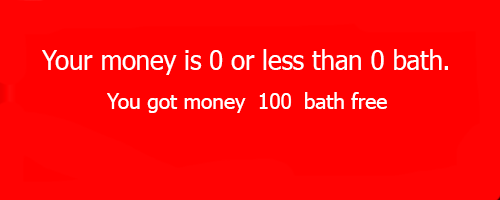
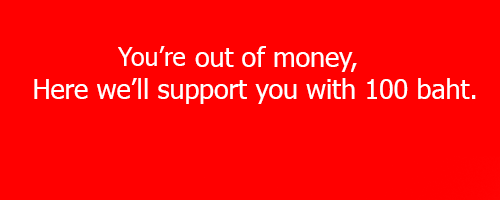
add Java doc

Changed region(s): [[0.06, 0.39, 0.96, 0.57], [0.06, 0.21, 0.9, 0.39], [0.99, 0.99, 1.0, 1.0]]

diff --git a/src/myhilo/GetDiceCorrect.java b/src/myhilo/GetDiceCorrect.java
@@ -1,7 +1,6 @@
 /*
- * To change this license header, choose License Headers in Project Properties.
- * To change this template file, choose Tools | Templates
- * and oppackage myhilo;en the template in the editor.
+ * This class for running test as console
+ * Also use for checking the dice and FaceChooser on MyDiceGame class.
  */
 package myhilo;
 import java.util.*;

diff --git a/src/myhilo/MyDiceGame.java b/src/myhilo/MyDiceGame.java
@@ -1,7 +1,6 @@
 /*
- * To change this license header, choose License Headers in Project Properties.
- * To change this template file, choose Tools | Templates
- * and open the template in the editor.
+ *This class use for playing Dice game which will record 
+ *your money everytime you finished a game.
  */
 package myhilo;
 import java.awt.*;

diff --git a/src/myhilo/FileLock.java b/src/myhilo/FileLock.java
@@ -1,7 +1,6 @@
 /*
- * To change this license header, choose License Headers in Project Properties.
- * To change this template file, choose Tools | Templates
- * and open the template in the editor.
+ * FileLock class use for read file from FileLoader package.
+ * Set Username Password and Money to use on other class.
  */
 package myhilo;
 

diff --git a/src/myhilo/MyCardGame.java b/src/myhilo/MyCardGame.java
@@ -1,7 +1,6 @@
 /*
- * To change this license header, choose License Headers in Project Properties.
- * To change this template file, choose Tools | Templates
- * and open the template in the editor.
+ * This class for playing CardGame which will get your acount use
+ * and set money all the time you finished a game.a
  */
 package myhilo;
 

diff --git a/src/myhilo/AdvertiseMain.java b/src/myhilo/AdvertiseMain.java
@@ -1,7 +1,7 @@
 /*
- * To change this license header, choose License Headers in Project Properties.
- * To change this template file, choose Tools | Templates
- * and open the template in the editor.
+ * For running FXML file
+ * Run as "Advertise.fxml" which use AdvertiseController class 
+ * to run Application.
  */
 package myhilo;
 

diff --git a/src/myhilo/GetFreeMoney.java b/src/myhilo/GetFreeMoney.java
@@ -1,7 +1,6 @@
 /*
- * To change this license header, choose License Headers in Project Properties.
- * To change this template file, choose Tools | Templates
- * and open the template in the editor.
+ * This class calling for notify that "you out off money
+ * and get 100 bath free" by showing from a picture.
  */
 package myhilo;
 

diff --git a/src/myhilo/NewMoneyAccount.java b/src/myhilo/NewMoneyAccount.java
@@ -1,7 +1,6 @@
 /*
- * To change this license header, choose License Headers in Project Properties.
- * To change this template file, choose Tools | Templates
- * and open the template in the editor.
+ * Showing every getting an new account for notify that "your got money
+ * free on this new account".
  */
 package myhilo;
 

diff --git a/src/myhilo/LoginForm.java b/src/myhilo/LoginForm.java
@@ -1,7 +1,5 @@
 /*
- * To change this license header, choose License Headers in Project Properties.
- * To change this template file, choose Tools | Templates
- * and open the template in the editor.
+ * Login form use for login to play on Hilo Game with your own account.
  */
 package myhilo;
 import java.io.File;

diff --git a/src/myhilo/RegisterForm.java b/src/myhilo/RegisterForm.java
@@ -1,7 +1,5 @@
 /*
- * To change this license header, choose License Headers in Project Properties.
- * To change this template file, choose Tools | Templates
- * and open the template in the editor.
+ * This class for regis an useraccount to play on Hilo application.
  */
 package myhilo;
 import java.awt.Color;

diff --git a/src/myhilo/PasswordSolve.java b/src/myhilo/PasswordSolve.java
@@ -1,7 +1,6 @@
 /*
- * To change this license header, choose License Headers in Project Properties.
- * To change this template file, choose Tools | Templates
- * and open the template in the editor.
+ * This class use for check password that are 
+ * strong password enough to regis
  */
 package myhilo;
 

diff --git a/src/myhilo/WhichCardHighest.java b/src/myhilo/WhichCardHighest.java
@@ -1,7 +1,6 @@
 /*
- * To change this license header, choose License Headers in Project Properties.
- * To change this template file, choose Tools | Templates
- * and open the template in the editor.
+ * To show the lowest to highest card.
+ * Using on playing Card game.
  */
 package myhilo;
 

diff --git a/src/myhilo/HowToPlayCardGame.java b/src/myhilo/HowToPlayCardGame.java
@@ -1,7 +1,5 @@
 /*
- * To change this license header, choose License Headers in Project Properties.
- * To change this template file, choose Tools | Templates
- * and open the template in the editor.
+ * This class is called by show how to play Card game on hilo game. 
  */
 package myhilo;
 
